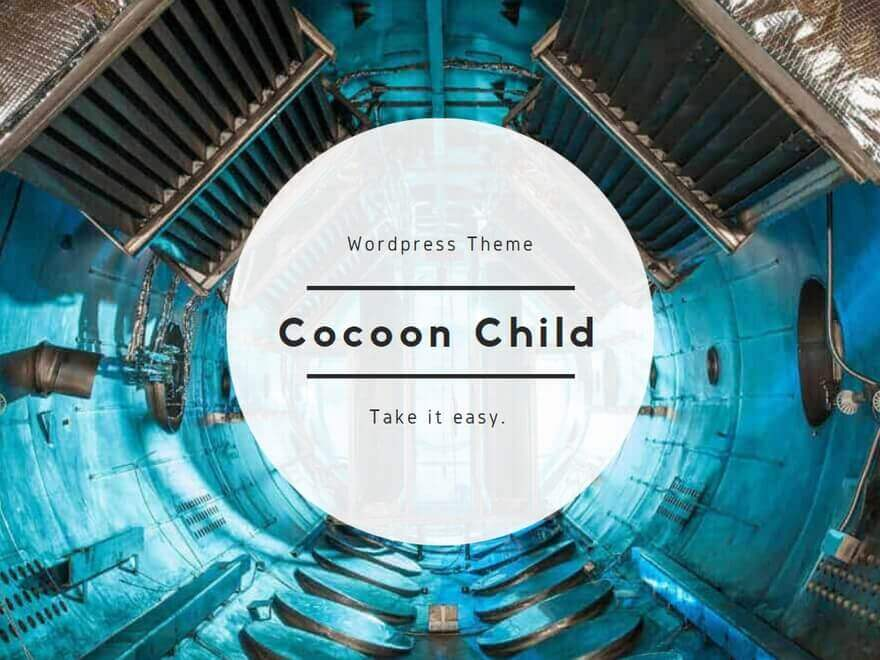
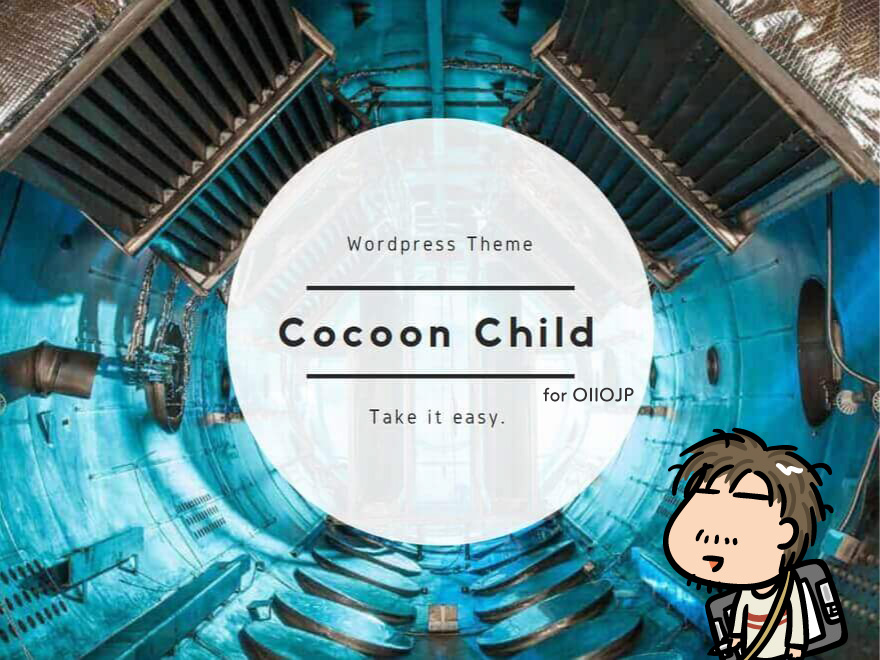
子テーマ情報の更新

diff --git a/style.css b/style.css
@@ -4,6 +4,8 @@
 Theme Name: Cocoon Child OIIO.JP Default
 Template:   cocoon-master
 Version:    1.1.0
+Author:     Ryuji Kitami
+Author URI: https://oiio.jp
 */
 
 /************************************
@@ -517,7 +519,6 @@ ul.hatena-list {
     .post-navi-square.post-navi-border a:last-child {
         border-top-width: 1px;
     }
-
 }
 /*
 .prev-post-title:before,
@@ -584,6 +585,9 @@ ul.hatena-list {
         font-weight: 600;
         font-size: 16px;
         letter-spacing: 0em;
+    }
+    .carousel {
+        display: none !important;
     }
 }
 
